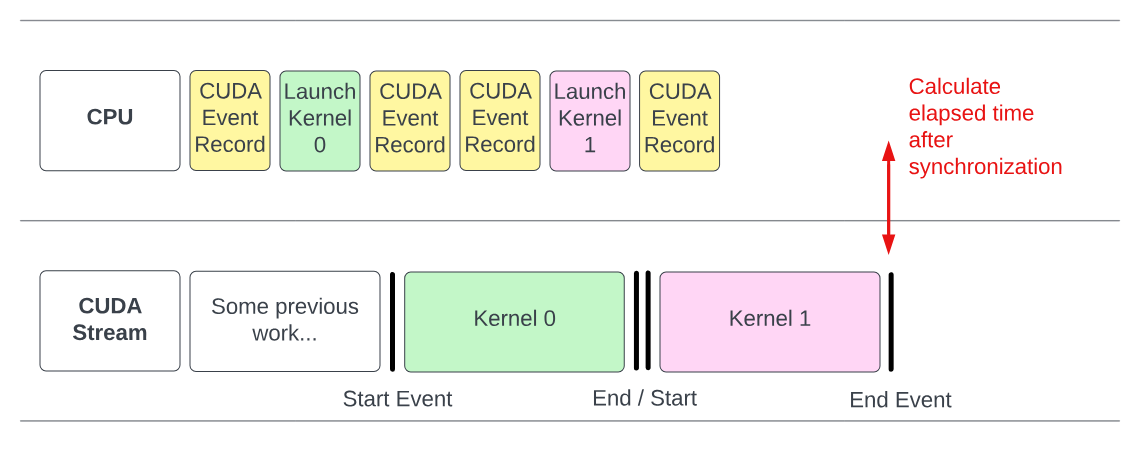
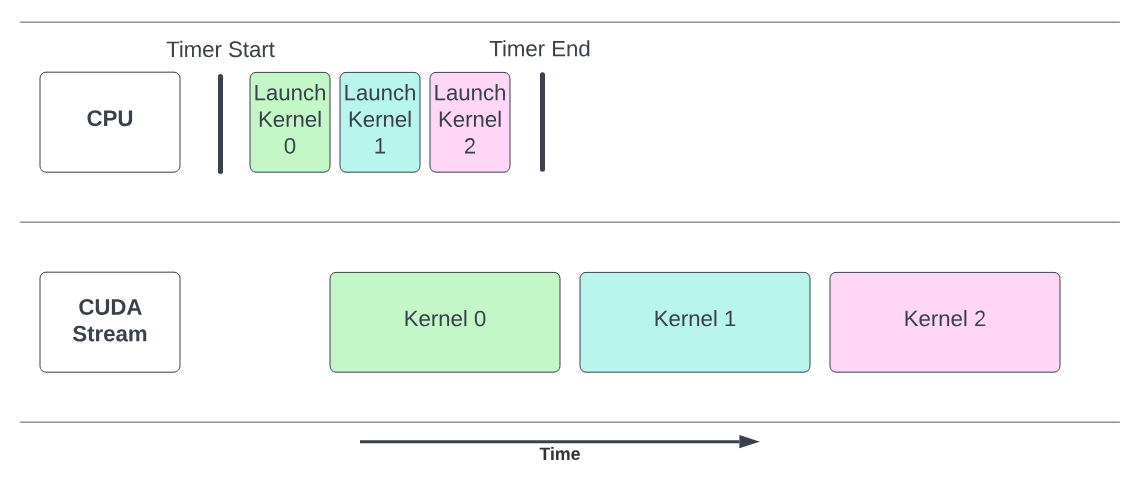
GITBOOK-211: change request with no subject merged in GitBook

diff --git a/hpc/pcie-nvlink-infiniband.md b/hpc/pcie-nvlink-infiniband.md
@@ -24,6 +24,43 @@ NVLink is NVIDIA's proprietary high-speed interconnect technology:
 * PCIe connects GPUs to motherboards and supports a variety of other peripherals.
 * InfiniBand interconnects separate nodes in a cluster, enabling efficient communication and scaling for large-scale, distributed computations.
 
+Practical configurations
+
+* GPU-to-GPU: NVLink connections enable direct data paths between GPUs without involving the CPU, which minimizes latency and maximizes bandwidth. This is crucial for performance in systems where GPUs need to frequently share data.
+* CPU-to-GPU: PCIe is used to connect GPUs to the CPU. The CPU sends data to the GPU for processing and receives results via this PCIe connection. Even though PCIe is slower than NVLink, it is sufficient for these purposes since the CPU-to-GPU data transfer does not typically need to be as frequent or as high-bandwidth as GPU-to-GPU communication.
+
 In summary, NVLink excels in high-speed GPU communication, PCIe provides flexibility and compatibility within a wide range of devices, and InfiniBand is key for inter-node communication in large clusters, essential for advanced HPC and AI tasks. Each plays a crucial role in building HPC and AI systems, and they are often used together to balance communication needs within and across computing nodes.
 
 <figure><img src="../.gitbook/assets/conn.jpg" alt=""><figcaption></figcaption></figure>
+
+### Server archs
+
+<figure><img src="../.gitbook/assets/image.png" alt=""><figcaption><p>NVLink Edition Servers</p></figcaption></figure>
+
+<figure><img src="../.gitbook/assets/image (1).png" alt=""><figcaption><p>PCIe Edition Servers</p></figcaption></figure>
+
+### nvidia-smi topo -m
+
+<figure><img src="../.gitbook/assets/image (2).png" alt=""><figcaption></figcaption></figure>
+
+This picture shows that your system uses a combination of NVLink and PCIe connections for the GPUs and network interface cards (NICs).
+
+#### GPU Interconnections:
+
+• All the GPUs (GPU0 through GPU7) have NVLink connections (NV18) with each other. This indicates high-speed, low-latency connections suitable for intensive data transfer and parallel computations that are typical in clustered GPU setups.
+
+• NV18 typically refers to the number of lanes or links available in the NVLink connection, suggesting a robust setup for GPU-to-GPU communication.
+
+#### GPU to NIC Interconnections:
+
+• The connections between the GPUs and the NICs (NIC0 through NIC9) show a mixture of connection types, including PIX, PXB, and SYS:
+
+• PIX (Connection traversing at most a single PCIe bridge): This suggests a relatively direct connection between the device and the CPU over PCIe, likely implying lower latency and higher performance than PXB or SYS.
+
+• PXB (Connection traversing multiple PCIe bridges): Indicates that the connection between the devices crosses multiple PCIe bridges, which can introduce more latency and potentially lower performance than PIX.
+
+• SYS (System, involving traversal across the host bridge and possibly across multiple PCIe switches): This is generally the least direct connection type, involving multiple hops that can increase latency.
+
+## Reference
+
+{% embed url="https://community.fs.com/article/nvlink-vs-pcie-selecting-the-ideal-option-for-nvidia-ai-servers.html" %}

diff --git a/hpc/timing-cuda-kernals.md b/hpc/timing-cuda-kernals.md
@@ -92,9 +92,9 @@ Pytorch executes GPU kernels asynchronously. While a CUDA kernel runs on GPU, th
 
 Call `torch.cuda.synchronize()` before taking a timing measurement. It waits all kernels in all CUDA streams to complete.
 
-<figure><img src="../.gitbook/assets/image.png" alt=""><figcaption></figcaption></figure>
+<figure><img src="../.gitbook/assets/image (3).png" alt=""><figcaption></figcaption></figure>
 
-<figure><img src="../.gitbook/assets/image (2).png" alt=""><figcaption></figcaption></figure>
+<figure><img src="../.gitbook/assets/image (2) (1).png" alt=""><figcaption></figcaption></figure>
 
 ```python
 import torch
@@ -144,7 +144,7 @@ torch.cuda.synchronize()
 times = [s.elapsed_time(e) for s, e in zip(start_events, end_events)]
 ```
 
-<figure><img src="../.gitbook/assets/image (3).png" alt=""><figcaption><p>step = 2</p></figcaption></figure>
+<figure><img src="../.gitbook/assets/image (3) (1).png" alt=""><figcaption><p>step = 2</p></figcaption></figure>
 
 When you place a `cuda.Event()` before and after a kernel launch, the events are enqueued into the CUDA stream right alongside the kernel. However, they do not cause the CPU to wait. They only mark the points in time when they reach that position in the stream. Since the timing is handled entirely by the GPU and the events are processed as part of the normal stream execution, there's no additional overhead from the CPU waiting or checking the status. This means that the recorded time pertains purely to GPU activity between the events, excluding the CPU-side overhead of launching the kernel.
 

diff --git a/os/intruction-pipelining.md b/os/intruction-pipelining.md
@@ -10,7 +10,7 @@ Classic RISC pipelines:
 
 By clock signal, these steps form a pipeline:
 
-<figure><img src="../.gitbook/assets/image (1) (1).png" alt="" width="476"><figcaption></figcaption></figure>
+<figure><img src="../.gitbook/assets/image (1) (1) (1).png" alt="" width="476"><figcaption></figcaption></figure>
 
 ### Instruction Level Parallelism
 
@@ -18,13 +18,13 @@ Each phrase uses different hardware resources, such that the execute periods of 
 
 
 
-<figure><img src="../.gitbook/assets/image (1) (1) (1).png" alt=""><figcaption><p>ILP</p></figcaption></figure>
+<figure><img src="../.gitbook/assets/image (1) (1) (1) (1).png" alt=""><figcaption><p>ILP</p></figcaption></figure>
 
 ### Superscalar
 
 Superscalar, implements multiple instruction pipeline in CPU to realize real instruction parallelism. In each clock cycel, CPU reads 2 instructions simultaneously, decodes them, executes and writes back at the same time.&#x20;
 
-<figure><img src="../.gitbook/assets/image (2) (1).png" alt=""><figcaption></figcaption></figure>
+<figure><img src="../.gitbook/assets/image (2) (1) (1).png" alt=""><figcaption></figcaption></figure>
 
 ### Pipeline hazard
 

diff --git a/hpc/nccl.md b/hpc/nccl.md
@@ -11,11 +11,11 @@ description: Nvidia Collective multi-GPU Communication Library
 
 Receive data from multi-sender and combine to one node
 
-<figure><img src="../.gitbook/assets/image (3) (1).png" alt="" width="563"><figcaption><p>Reduce</p></figcaption></figure>
+<figure><img src="../.gitbook/assets/image (3) (1) (1).png" alt="" width="563"><figcaption><p>Reduce</p></figcaption></figure>
 
 Receive data from multi-sender and combine to every node
 
-<figure><img src="../.gitbook/assets/image (1) (1) (1) (1).png" alt="" width="563"><figcaption><p>All-reduce</p></figcaption></figure>
+<figure><img src="../.gitbook/assets/image (1) (1) (1) (1) (1).png" alt="" width="563"><figcaption><p>All-reduce</p></figcaption></figure>
 
 Collective communication assumes the topology of nodes is a fat tree, which has highest communication efficiency. But real topology could be more complex, then ring-based collective communication is applied.
 

diff --git a/algorithm/reservoir-sampling.md b/algorithm/reservoir-sampling.md
@@ -1,6 +1,6 @@
 # Reservoir sampling
 
-<figure><img src="../.gitbook/assets/image (1) (1) (1) (1) (1).png" alt=""><figcaption></figcaption></figure>
+<figure><img src="../.gitbook/assets/image (1) (1) (1) (1) (1) (1).png" alt=""><figcaption></figcaption></figure>
 
 给定一个数据流，数据流长度N很大，且N直到处理完所有数据之前都不可知，请问如何在只遍历一遍数据（O(N)）的情况下，能够随机选取出m个不重复的数据。
 

diff --git a/algorithm/brian-kernighan-algorithm.md b/algorithm/brian-kernighan-algorithm.md
@@ -4,7 +4,7 @@
 
 Given any integer x,  f(x) = x & (x - 1).  f(x) is the result for x to unset its rightmost set bit.
 
-![example](<../.gitbook/assets/image (1) (1) (1) (1) (1) (1).png>)
+![example](<../.gitbook/assets/image (1) (1) (1) (1) (1) (1) (1).png>)
 
 Similarly, x & (\~x + 1) fetchs out the rightmost set bit.
 

diff --git a/algorithm/big-o-notation.md b/algorithm/big-o-notation.md
@@ -4,4 +4,4 @@ description: CZ4016 Lecture 1
 
 # Asymptotic Analysis
 
-![](<../.gitbook/assets/image (2) (1) (1) (1).png>)
+![](<../.gitbook/assets/image (2) (1) (1) (1) (1).png>)
